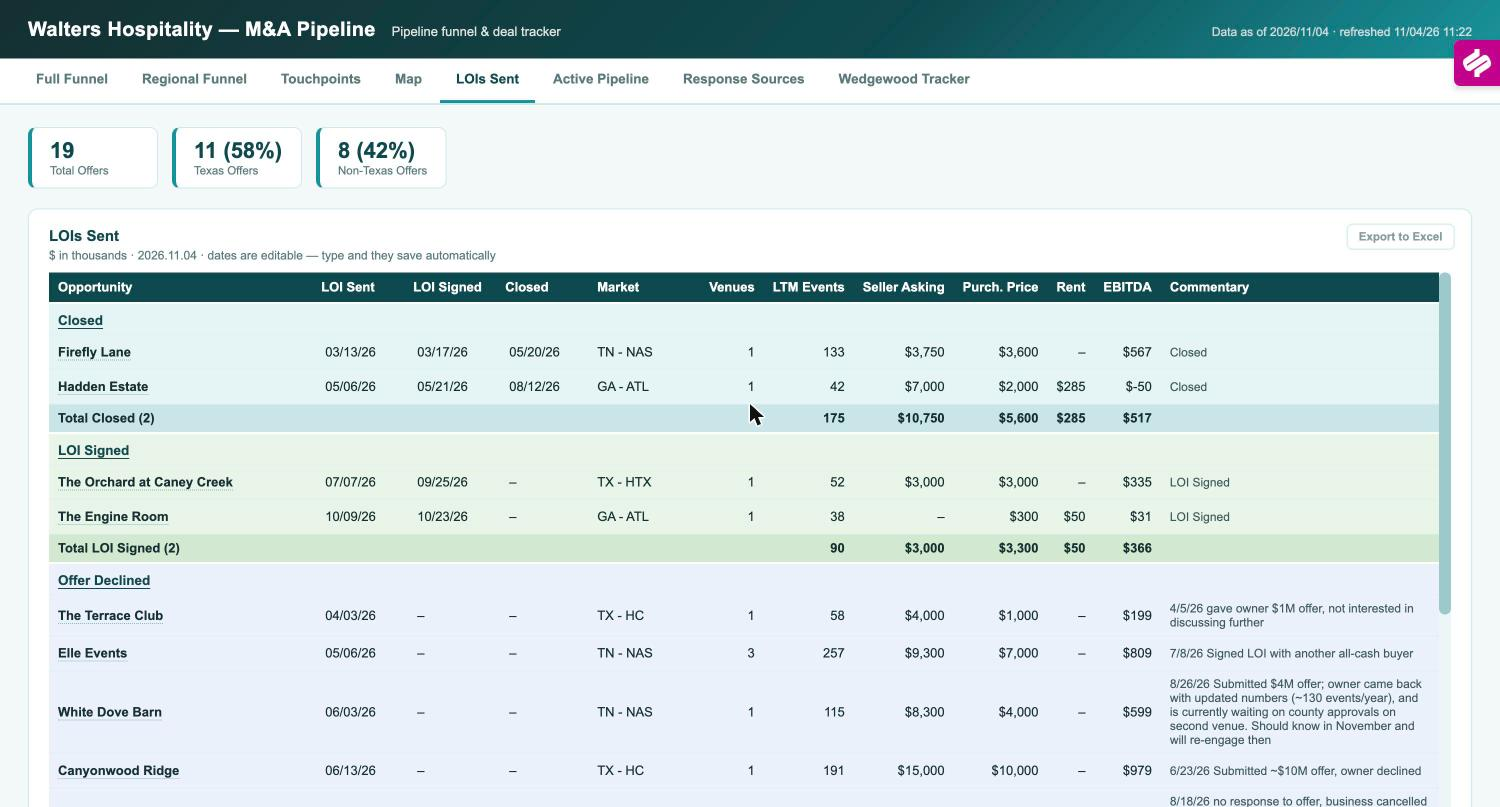
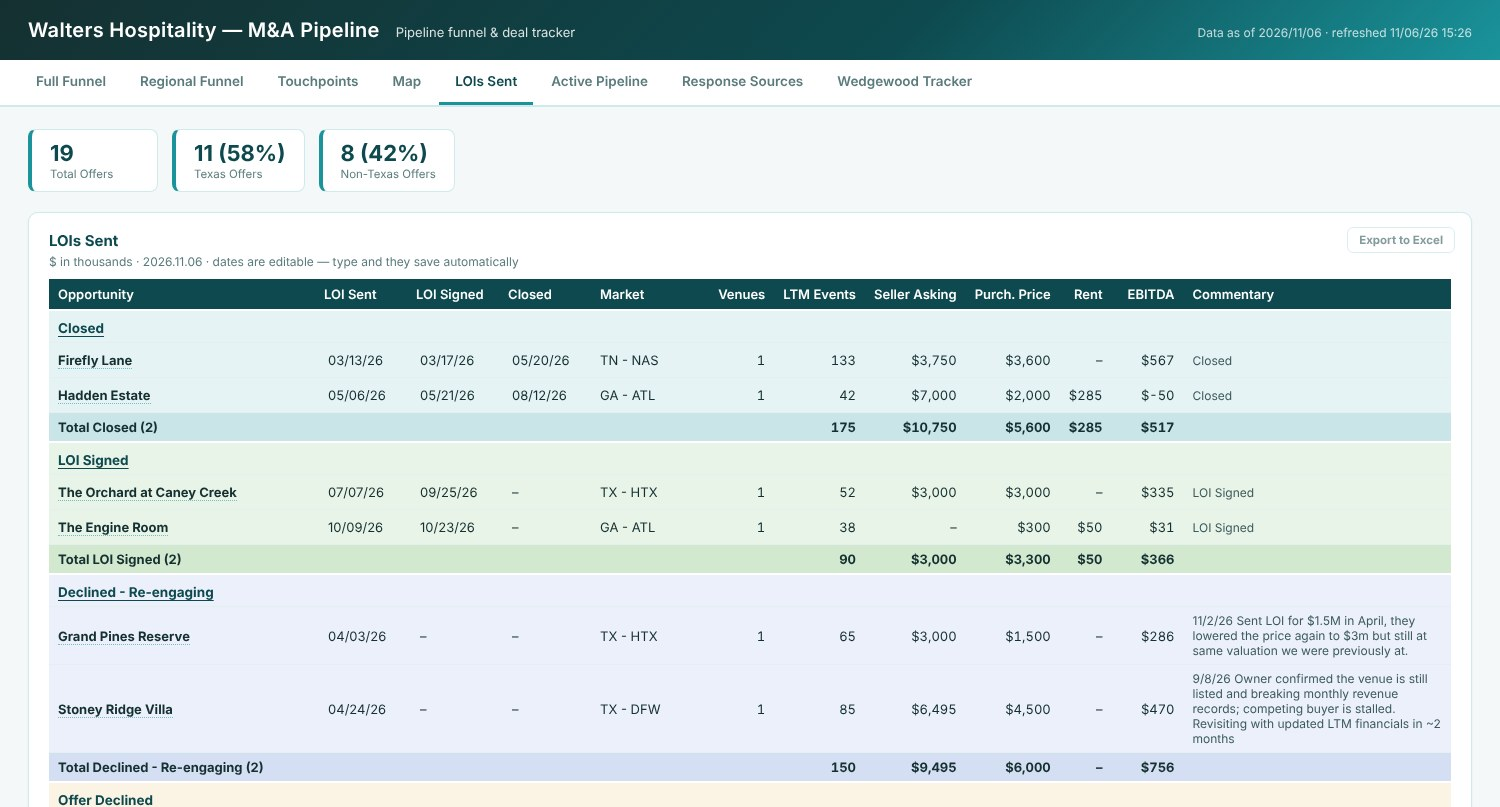
Strategy packet: revised LOI ledger screenshot and LOI-by-market categories
Claude-Session: https://claude.ai/code/session_011rmSXpZdbTVdeZmZwHNgCq

diff --git a/strategy-packet/packet-editable.html b/strategy-packet/packet-editable.html
@@ -61,7 +61,7 @@ td.k,td b.k{font-weight:700;color:var(--teal)}
 .loi{display:grid;grid-template-columns:62px 1fr 14px;gap:4px 6px;align-items:center;font-size:8pt}
 .loi .seg{display:flex;height:14px}
 .loi .seg span{color:#fff;font-size:7.2pt;font-weight:600;display:flex;align-items:center;justify-content:center;margin-right:1px}
-.c1{background:#0e3c3a}.c2{background:#2e7d74}.c3{background:#c8d5d3;color:#1b2a2a!important}.c4{background:var(--gold);color:#1b2a2a!important}
+.c1{background:#0e3c3a}.c2{background:#2e7d74}.c3{background:#c8d5d3;color:#1b2a2a!important}.c4{background:var(--gold);color:#1b2a2a!important}.c5{background:#e2b96a;color:#1b2a2a!important}.c6{background:#8a9593}
 .legend{display:flex;gap:10px;font-size:7.4pt;margin:2px 0 6px}
 .legend i{display:inline-block;width:9px;height:9px;margin-right:3px;vertical-align:-1px}
 /* dashboards */
@@ -202,17 +202,17 @@ td.k,td b.k{font-weight:700;color:var(--teal)}
 <div class="xl"><span>5/25</span><span>6/8</span><span>6/22</span><span>7/6</span><span>7/20</span><span>8/3</span><span>8/17</span><span>8/31</span><span>9/14</span><span>9/28</span><span>10/12</span><span>10/26</span></div>
 <p class="small" style="margin:6px 0 10px">3,757 touchpoints YTD (662 new, 1,559 follow-ups, 1,536 active). 70+ venues toured; 14 of 16 market visits done.</p>
 <div class="lab">LOIs sent in 2026 by market (19)</div>
-<div class="legend"><span><i class="c1"></i>Closed</span><span><i class="c2"></i>Signed</span><span><i class="c3"></i>Declined</span><span><i class="c4"></i>Other</span></div>
+<div class="legend"><span><i class="c1"></i>Closed</span><span><i class="c2"></i>Signed</span><span><i class="c5"></i>Re-engaging</span><span><i class="c3"></i>Declined</span><span><i class="c6"></i>Died post-LOI</span></div>
 <div class="loi">
 <span>Nashville</span><div class="seg"><span class="c1" style="width:25%">1</span><span class="c3" style="width:75%">3</span></div><span>4</span>
-<span>Houston</span><div class="seg"><span class="c2" style="width:25%">1</span><span class="c3" style="width:50%">2</span><span class="c4" style="width:25%">1</span></div><span>4</span>
-<span>DFW</span><div class="seg"><span class="c3" style="width:50%">2</span><span class="c4" style="width:50%">2</span></div><span>4</span>
+<span>Houston</span><div class="seg"><span class="c2" style="width:25%">1</span><span class="c5" style="width:25%">1</span><span class="c3" style="width:50%">2</span></div><span>4</span>
+<span>DFW</span><div class="seg"><span class="c5" style="width:25%">1</span><span class="c3" style="width:50%">2</span><span class="c6" style="width:25%">1</span></div><span>4</span>
 <span>Hill Country</span><div class="seg" style="width:75%"><span class="c3" style="width:100%">3</span></div><span>3</span>
 <span>Atlanta</span><div class="seg" style="width:50%"><span class="c1" style="width:50%">1</span><span class="c2" style="width:50%">1</span></div><span>2</span>
 <span>Indianapolis</span><div class="seg" style="width:25%"><span class="c3" style="width:100%">1</span></div><span>1</span>
-<span>Orlando</span><div class="seg" style="width:25%"><span class="c4" style="width:100%">1</span></div><span>1</span>
+<span>Orlando</span><div class="seg" style="width:25%"><span class="c3" style="width:100%">1</span></div><span>1</span>
 </div>
-<p class="muted small" style="margin:6px 0 8px">11 Texas, 8 outside. 2 closed (Firefly Lane, Hadden), 2 signed (Caney Creek, Engine Room), 11 declined, 4 other.</p>
+<p class="muted small" style="margin:6px 0 8px">11 Texas, 8 outside. 2 closed (Firefly Lane, Hadden), 2 signed (Caney Creek, Engine Room), 2 declined but re-engaging (Grand Pines, Stoney Ridge), 12 declined, 1 died after signing (Davis &amp; Grey).</p>
 <div class="box white"><h3>Middle of the funnel: the program and early results</h3><ul>
 <li>Quarterly Venue Trends one-pager to 145 venues: <b>67% open, 6% reply and counting</b></li>
 <li>Coffee Chat gift cards to 40 top-priority targets: <b>80% open, 3% reply</b></li>
@@ -360,7 +360,7 @@ td.k,td b.k{font-weight:700;color:var(--teal)}
 <div class="sub g">M&amp;A Pipeline tracker, LOIs Sent and Active Pipeline tabs · deal terms shown; internal only</div>
 <div class="rule"></div>
 <div class="shot"><img src="img/s-006.jpg"></div><p class="cap">All 19 LOIs with terms and outcomes.</p>
-<div class="dcols"><div><div class="shot"><img src="img/s-007.jpg"></div><p class="cap">55 live targets scored 0 to 10 with economics.</p></div><div><h3>What it is</h3><p>The ledger lists all 19 offers with dates, market, LTM events, asking price, our price, rent, EBITDA, and outcome: 2 closed, 2 signed, 11 declined, 4 other; 11 Texas, 8 outside. The Active Pipeline scores the 55 live targets 0 to 10 with LTM and pro-forma year-2 revenue and EBITDA, future bookings, and the latest note.</p></div></div>
+<div class="dcols"><div><div class="shot"><img src="img/s-007.jpg"></div><p class="cap">55 live targets scored 0 to 10 with economics.</p></div><div><h3>What it is</h3><p>The ledger lists all 19 offers with dates, market, LTM events, asking price, our price, rent, EBITDA, and outcome: 2 closed, 2 signed, 2 declined but re-engaging, 12 declined, 1 died after signing; 11 Texas, 8 outside. The Active Pipeline scores the 55 live targets 0 to 10 with LTM and pro-forma year-2 revenue and EBITDA, future bookings, and the latest note.</p></div></div>
 <div class="dcols"><div><h3>Why it matters</h3><p>This is where valuation discipline shows. The commentary records why deals die: Canyonwood declined ~$10M, Videre priced business plus land far above earnings, Emerson needed $3.5M against $1.5M, Edible Ideas called $16M '100%+ off'. One lost to an all-cash buyer (Elle). Next LOIs in order: Meadows, D'Amico, Lillian Gardens, The Revere, Tuscany Falls (210 events, score 9.6).</p></div><div><h3>How we use it</h3><p>Before every offer, the ledger sets comparables and the pipeline score frames the data book. It feeds the quarterly board slide and the Saturday scorecard (LOIs vs the 20 goal).</p></div></div>
 <div class="built">The 0 to 10 pipeline score is Cate's rubric on quality, economics, and fit, built in September alongside the venue scoring rubric reported to the board.</div>
 </section>

diff --git a/strategy-packet/packet.html b/strategy-packet/packet.html
@@ -62,7 +62,7 @@ td.k,td b.k{font-weight:700;color:var(--teal)}
 .loi{display:grid;grid-template-columns:62px 1fr 14px;gap:4px 6px;align-items:center;font-size:8pt}
 .loi .seg{display:flex;height:14px}
 .loi .seg span{color:#fff;font-size:7.2pt;font-weight:600;display:flex;align-items:center;justify-content:center;margin-right:1px}
-.c1{background:#0e3c3a}.c2{background:#2e7d74}.c3{background:#c8d5d3;color:#1b2a2a!important}.c4{background:var(--gold);color:#1b2a2a!important}
+.c1{background:#0e3c3a}.c2{background:#2e7d74}.c3{background:#c8d5d3;color:#1b2a2a!important}.c4{background:var(--gold);color:#1b2a2a!important}.c5{background:#e2b96a;color:#1b2a2a!important}.c6{background:#8a9593}
 .legend{display:flex;gap:10px;font-size:7.4pt;margin:2px 0 6px}
 .legend i{display:inline-block;width:9px;height:9px;margin-right:3px;vertical-align:-1px}
 /* dashboards */
@@ -189,17 +189,17 @@ td.k,td b.k{font-weight:700;color:var(--teal)}
 <div class="xl"><span>5/25</span><span>6/8</span><span>6/22</span><span>7/6</span><span>7/20</span><span>8/3</span><span>8/17</span><span>8/31</span><span>9/14</span><span>9/28</span><span>10/12</span><span>10/26</span></div>
 <p class="small" style="margin:6px 0 10px">3,757 touchpoints YTD (662 new, 1,559 follow-ups, 1,536 active). 70+ venues toured; 14 of 16 market visits done.</p>
 <div class="lab">LOIs sent in 2026 by market (19)</div>
-<div class="legend"><span><i class="c1"></i>Closed</span><span><i class="c2"></i>Signed</span><span><i class="c3"></i>Declined</span><span><i class="c4"></i>Other</span></div>
+<div class="legend"><span><i class="c1"></i>Closed</span><span><i class="c2"></i>Signed</span><span><i class="c5"></i>Re-engaging</span><span><i class="c3"></i>Declined</span><span><i class="c6"></i>Died post-LOI</span></div>
 <div class="loi">
 <span>Nashville</span><div class="seg"><span class="c1" style="width:25%">1</span><span class="c3" style="width:75%">3</span></div><span>4</span>
-<span>Houston</span><div class="seg"><span class="c2" style="width:25%">1</span><span class="c3" style="width:50%">2</span><span class="c4" style="width:25%">1</span></div><span>4</span>
-<span>DFW</span><div class="seg"><span class="c3" style="width:50%">2</span><span class="c4" style="width:50%">2</span></div><span>4</span>
+<span>Houston</span><div class="seg"><span class="c2" style="width:25%">1</span><span class="c5" style="width:25%">1</span><span class="c3" style="width:50%">2</span></div><span>4</span>
+<span>DFW</span><div class="seg"><span class="c5" style="width:25%">1</span><span class="c3" style="width:50%">2</span><span class="c6" style="width:25%">1</span></div><span>4</span>
 <span>Hill Country</span><div class="seg" style="width:75%"><span class="c3" style="width:100%">3</span></div><span>3</span>
 <span>Atlanta</span><div class="seg" style="width:50%"><span class="c1" style="width:50%">1</span><span class="c2" style="width:50%">1</span></div><span>2</span>
 <span>Indianapolis</span><div class="seg" style="width:25%"><span class="c3" style="width:100%">1</span></div><span>1</span>
-<span>Orlando</span><div class="seg" style="width:25%"><span class="c4" style="width:100%">1</span></div><span>1</span>
+<span>Orlando</span><div class="seg" style="width:25%"><span class="c3" style="width:100%">1</span></div><span>1</span>
 </div>
-<p class="muted small" style="margin:6px 0 8px">11 Texas, 8 outside. 2 closed (Firefly Lane, Hadden), 2 signed (Caney Creek, Engine Room), 11 declined, 4 other.</p>
+<p class="muted small" style="margin:6px 0 8px">11 Texas, 8 outside. 2 closed (Firefly Lane, Hadden), 2 signed (Caney Creek, Engine Room), 2 declined but re-engaging (Grand Pines, Stoney Ridge), 12 declined, 1 died after signing (Davis &amp; Grey).</p>
 <div class="box white"><h3>Middle of the funnel: the program and early results</h3><ul>
 <li>Quarterly Venue Trends one-pager to 145 venues: <b>67% open, 6% reply and counting</b></li>
 <li>Coffee Chat gift cards to 40 top-priority targets: <b>80% open, 3% reply</b></li>
@@ -347,7 +347,7 @@ td.k,td b.k{font-weight:700;color:var(--teal)}
 <div class="sub g">M&amp;A Pipeline tracker, LOIs Sent and Active Pipeline tabs · deal terms shown; internal only</div>
 <div class="rule"></div>
 <div class="shot"><img src="img/s-006.jpg"></div><p class="cap">All 19 LOIs with terms and outcomes.</p>
-<div class="dcols"><div><div class="shot"><img src="img/s-007.jpg"></div><p class="cap">55 live targets scored 0 to 10 with economics.</p></div><div><h3>What it is</h3><p>The ledger lists all 19 offers with dates, market, LTM events, asking price, our price, rent, EBITDA, and outcome: 2 closed, 2 signed, 11 declined, 4 other; 11 Texas, 8 outside. The Active Pipeline scores the 55 live targets 0 to 10 with LTM and pro-forma year-2 revenue and EBITDA, future bookings, and the latest note.</p></div></div>
+<div class="dcols"><div><div class="shot"><img src="img/s-007.jpg"></div><p class="cap">55 live targets scored 0 to 10 with economics.</p></div><div><h3>What it is</h3><p>The ledger lists all 19 offers with dates, market, LTM events, asking price, our price, rent, EBITDA, and outcome: 2 closed, 2 signed, 2 declined but re-engaging, 12 declined, 1 died after signing; 11 Texas, 8 outside. The Active Pipeline scores the 55 live targets 0 to 10 with LTM and pro-forma year-2 revenue and EBITDA, future bookings, and the latest note.</p></div></div>
 <div class="dcols"><div><h3>Why it matters</h3><p>This is where valuation discipline shows. The commentary records why deals die: Canyonwood declined ~$10M, Videre priced business plus land far above earnings, Emerson needed $3.5M against $1.5M, Edible Ideas called $16M '100%+ off'. One lost to an all-cash buyer (Elle). Next LOIs in order: Meadows, D'Amico, Lillian Gardens, The Revere, Tuscany Falls (210 events, score 9.6).</p></div><div><h3>How we use it</h3><p>Before every offer, the ledger sets comparables and the pipeline score frames the data book. It feeds the quarterly board slide and the Saturday scorecard (LOIs vs the 20 goal).</p></div></div>
 <div class="built">The 0 to 10 pipeline score is Cate's rubric on quality, economics, and fit, built in September alongside the venue scoring rubric reported to the board.</div>
 </section>
